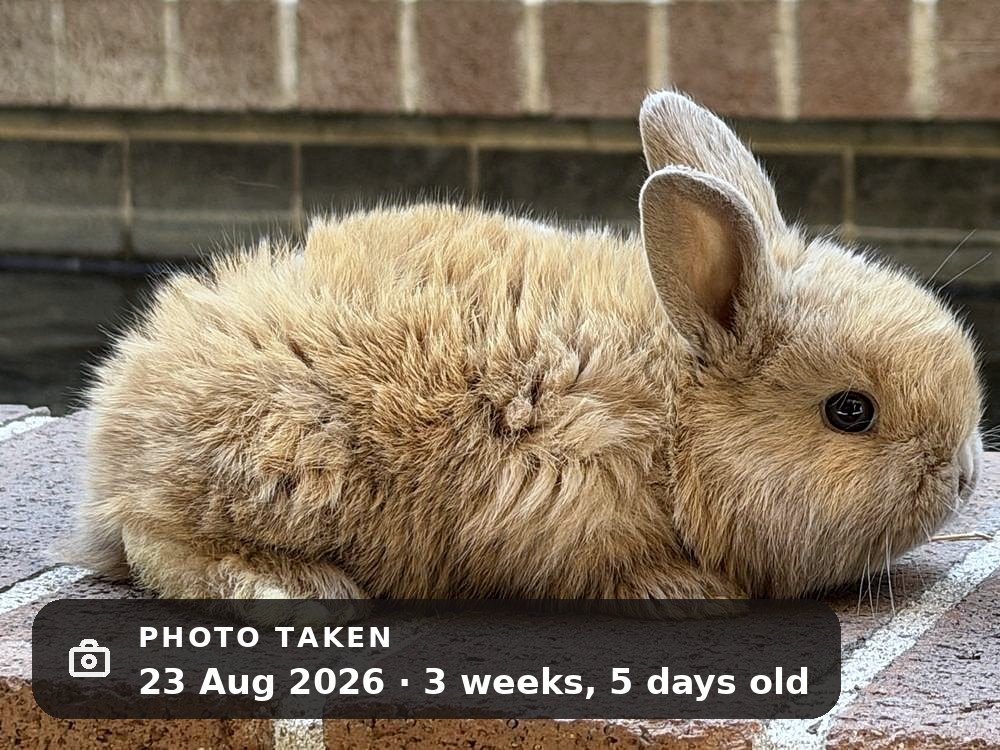
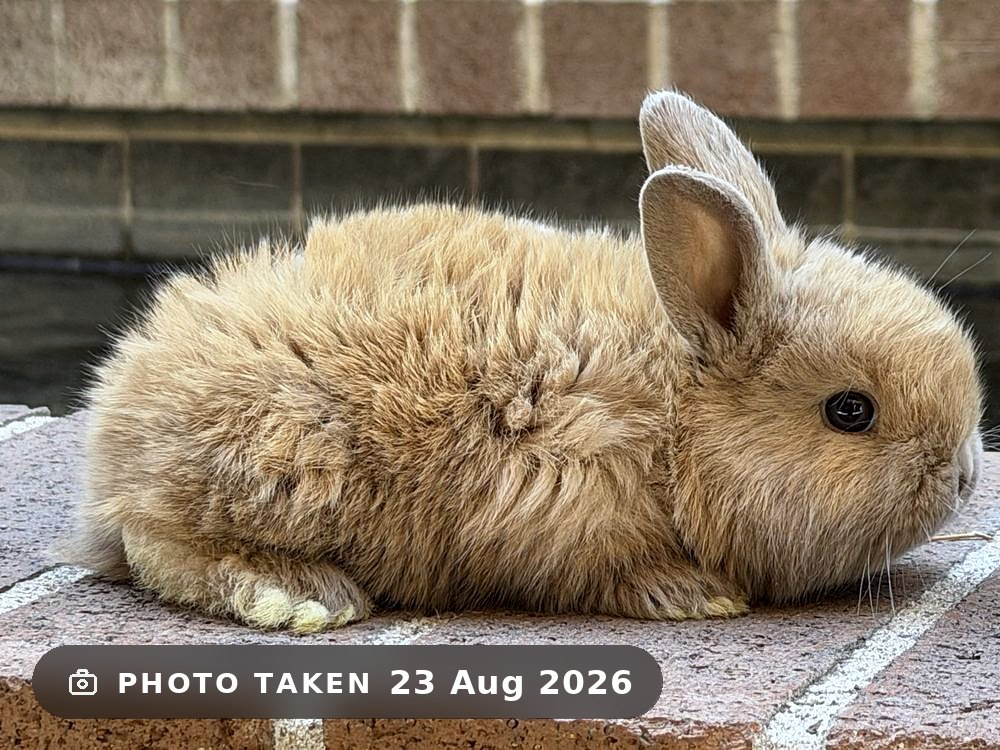
The stamp is the pill again: 12.5px, frosted, one line
William: "the font looks extremely big. Are you sure this is
intentional? It looks rather bulky ... I want you to get their attention
without overcrowding the screen and making everything feel
claustrophobic."

Measured against the pill this replaced, he was right three times over.
The pill (.vborn) is 12.5px type, 6px/12px padding, 27.6px tall, on 62%
dark over a SEVEN PIXEL BLUR of the photograph beneath it. What I burned
in was 13.1px type, 8px padding, 44.5px tall — 61% taller — on a solid
82% slab with no blur.

The opacity is the part I had not thought about at all. A solid block
reads as a label stuck onto the picture; frosted glass reads as part of
it. datestamp.py now blurs and lifts the box's own pixels before the
scrim goes over them, which is exactly what backdrop-filter does in CSS,
and every other number is taken from .vborn rather than chosen: 12.5px,
0.03em tracked, 6/12 padding, line-height 1.25. It lands at 27.3px tall
and 12.3px type on the phone stage, against the pill's 27.6 and 12.5.

AND THE AGE CAME OFF, which is the same fix as yesterday's label rather
than a retreat from it. "3 weeks, 5 days old" was both halves of the
problem: it is what read as the rabbit's age today, and it is what made
the block wide enough to crowd the frame. It is also the one fact in
there that is derivable — the birth date is in the record two lines
below, and the listing's own prose already says "in the 23 August
[…]

Changed region(s): [[0.031, 0.7973, 0.868, 0.9813]]

diff --git a/index.html b/index.html
@@ -3461,7 +3461,7 @@ body.locked{overflow:hidden}
      tile and a card thumbnail, and a burned date in those is an unreadable smudge,
      so everything small keeps the clean file. GENERATED -- never typed; --check
      fails a stale map. -->
-<script id="photoDated" type="application/json">{"photos/butterscotch.jpg":"photos/butterscotch-dated.jpg?v=6ada2972","photos/cloud.jpg":"photos/cloud-dated.jpg?v=c8670629","photos/father-2.jpg":"photos/father-2-dated.jpg?v=728d224d","photos/mother-2.jpg":"photos/mother-2-dated.jpg?v=36c8cfa2","photos/mother.jpg":"photos/mother-dated.jpg?v=4cbcf4ae","photos/sundae.jpg":"photos/sundae-dated.jpg?v=5eaf3e4b","photos/teddy.jpg":"photos/teddy-dated.jpg?v=926dfd22"}</script>
+<script id="photoDated" type="application/json">{"photos/butterscotch.jpg":"photos/butterscotch-dated.jpg?v=eb22415b","photos/cloud.jpg":"photos/cloud-dated.jpg?v=86e38b70","photos/father-2.jpg":"photos/father-2-dated.jpg?v=73c0c1a2","photos/mother-2.jpg":"photos/mother-2-dated.jpg?v=22ef2fe2","photos/mother.jpg":"photos/mother-dated.jpg?v=d7c74bed","photos/sundae.jpg":"photos/sundae-dated.jpg?v=965792a4","photos/teddy.jpg":"photos/teddy-dated.jpg?v=3b128fed"}</script>
 <script id="photoShape" type="application/json">{"photos/butterscotch.jpg":"1000/750","photos/cloud.jpg":"1000/750","photos/father-2.jpg":"1448/1086","photos/father-video.jpg":"960/720","photos/litter-2026-06-28.jpg":"1400/1050","photos/litter-2026-07-28.jpg":"1400/1050","photos/litter-2026-08-27-2026-09-02.jpg":"1050/1400","photos/litter-2026-08-27-2026-09-06.jpg":"1050/1400","photos/litter-2026-08-27-2026-09-08.jpg":"1050/1400","photos/litter-2026-08-27.jpg":"1400/1050","photos/mother-2.jpg":"1600/1200","photos/mother.jpg":"1600/1200","photos/sundae.jpg":"1000/750","photos/teddy.jpg":"1000/750"}</script>
 <!-- EVERY LITTER ON THE SITE (9 Sept 2026), newest first: its number, its date,
      how many were born and raised, which parents, and the kits of that litter
